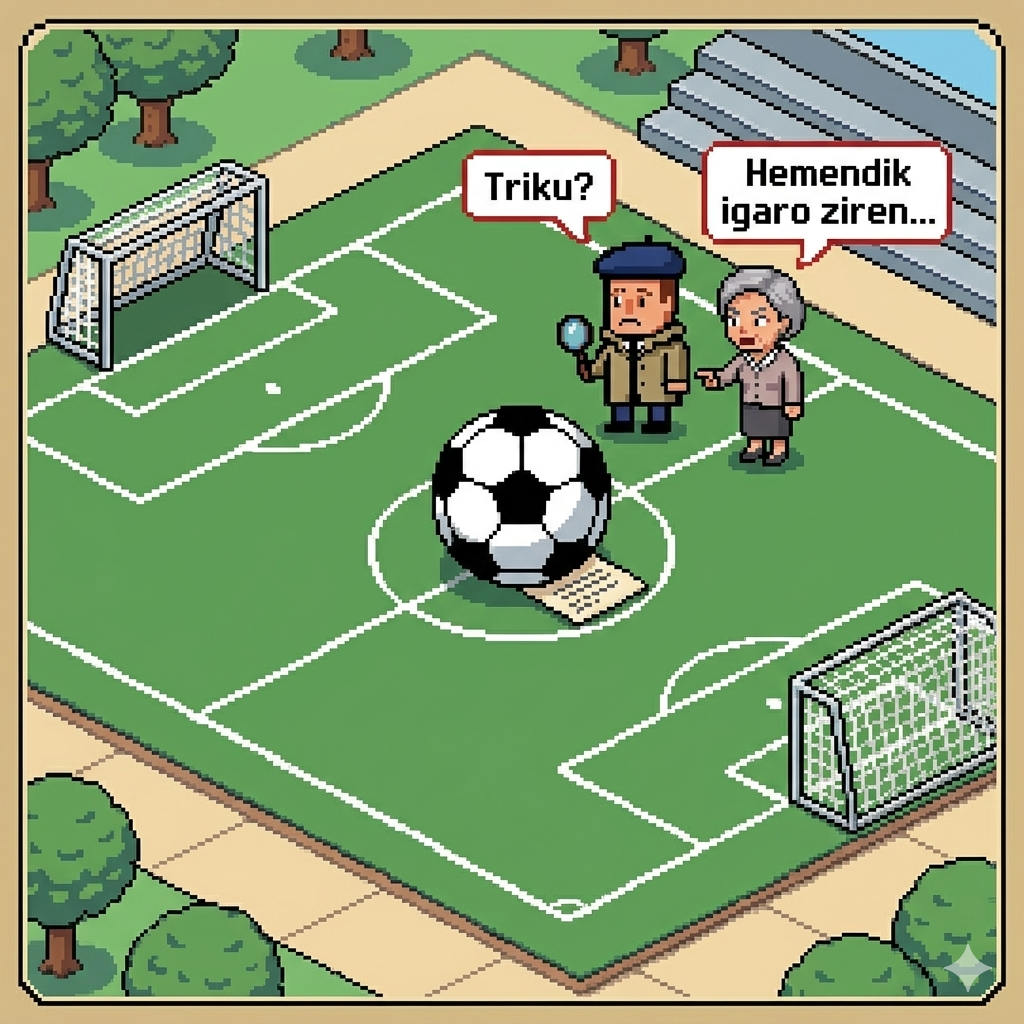
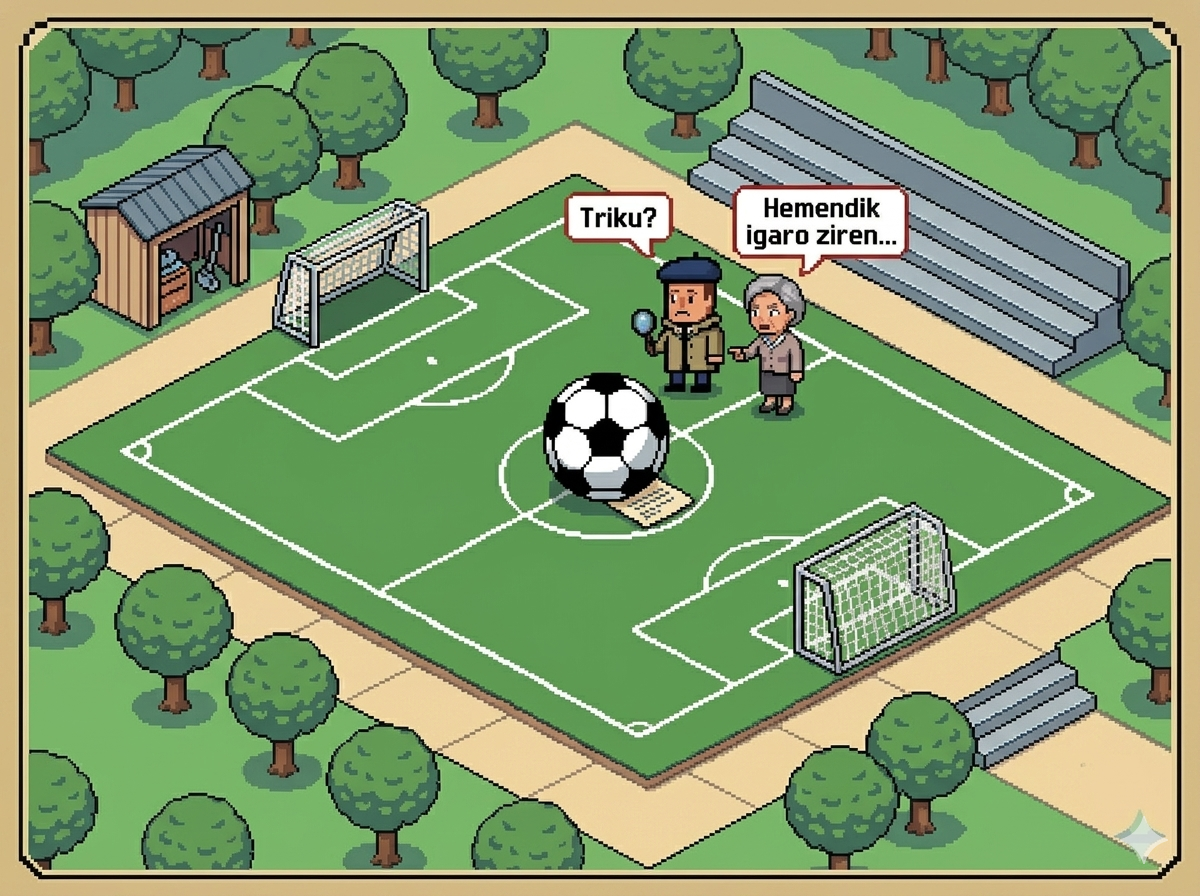
Versión 3

diff --git a/script.js b/script.js
@@ -1,6 +1,6 @@
 /**
  * ═══════════════════════════════════════════════════════
- * CODEX OSCURO — Motor del juego
+ * eroski OSCURO — Motor del juego
  * Elige tu propia aventura — 13 páginas
  * ═══════════════════════════════════════════════════════
  */
@@ -48,153 +48,183 @@ const PAGINAS = [
     capitulo: 'II. KAPITULUA',
     titulo: 'LARRAMENDI FUTBOL ZELAIA',
     texto: `Bartolin Basteitara iritsi zenean, zelaia isilik zegoen. Landako tabernan galdetu zuen ea norbaitek zerbait arraroa ikusi zuen, baina inork ez zuen ezer ikusi. Harmailetan begiratu zuen eta ez zuen ezer aurkitu. Aldagelak arakatu zituen eta ez zuen arrastorik aurkitu. Baina bat-batean, zerbaitek atentzioa eman zion berdegunean. Bartolinen ama zelai erdian zegoen baloi baten ondoan.\n\nBartolin! Bartolin! – oihukatu zuen amak. Eskerrak iritsi zaren. Basteitan paseatzen ari nintzen eta futbol zelaiaren erdian baloi bat zegoela ikusi dut. Eta harrapatzera hurbildu naizenean, ohar bat zegoen baloiaren azpian.`,
-    lore: `En el desierto campo de Larramendi, la madre de Bartolín le guió hasta el círculo central, donde un balón solitario custodiaba un mensaje enigmático. Lo que parecía un simple descuido en Basteita se reveló como el primer acertijo de un juego macabro ideado por 'E'.`,
+    lore: `...`,
     desafio: {
-      galdera: `Bartolinek ohar bat aurkitu du, baina hitz bat falta da:\n\n"Triku berriz ikusi nahi baduzue, _____ pistei."\n\nZein da hitz falta dena?`,
-      erantzuna: 'jarraitu',
-      okerMezua: `Hori ez da... Saiatu berriro. Oharrak zer egiteko esaten du pisteekin?`,
+      galdera: `Zenbat pertsona daude futboleko 2 partida aldi berean jokatzen diren jokalekuan?`,
+      erantzuna: '30',
+      okerMezua: `Hori ez da... Saiatu berriro. Pista: Zelaiaren barruan jokalariak eta beste norbait daude.`,
     },
 	escena: 'larramendi_campo',
     opciones: [
-      { texto: '"Busco el Codex Oscuro para destruirlo"', destino: 5 },
-      { texto: '"Busco poder. Vine por el grimorio"', destino: 6 },
-      { texto: 'Atacarla sin responder', destino: 7 },
+      { texto: 'Zubi berrira joan', destino: 5 },
+      { texto: 'Frontoira joan', destino: 6 },
+      { texto: 'Eskolara itzuli', destino: 7 },
     ],
   },
 
   // ──────────────────────────────────────
-  // PÁGINA 3 — La oscuridad
+  // PÁGINA 3 — El Ayuntamiento
   // ──────────────────────────────────────
   {
     id: 3,
     capitulo: 'III. KAPITULUA',
-    titulo: 'EL ABISMO QUE RESPIRA',
-    texto: `Avanzas con la mano en la pared húmeda. El viento que proviene de la oscuridad no es aire normal: tiene temperatura, tiene peso. Es como si algo respirara al final del pasillo.\n\nDespués de veinte pasos, tu pie toca el vacío. Justo a tiempo logras agarrarte a un saledizo de piedra. Bajo ti, a metros de profundidad, hay una sala iluminada por una luz azul pálida.\n\nEn las paredes del abismo hay figuras grabadas: guerreros, magos, criaturas. Todos convergiendo hacia un mismo punto. Y en ese punto hay una escalera de hierro oxidado que desciende hacia la sala azul.`,
-    lore: `ANOMALÍA DETECTADA: El Pozo de Ecos\n\nCualquier sonido pronunciado en este pasillo se duplica y regresa modificado. Los exploradores del siglo XII reportaron haber escuchado sus propias voces del futuro.`,
-    escena: 'abismo',
+    titulo: 'UDALETXEA',
+    texto: `Egun hartan Udaletxeko plaza bare zegoen. Bartolin arrastoen bila hasi zen. Arake tabernan galdetu zuen, baina Danik esan zion ez zuela ezer arrarorik ikusi. Gero, Posta Bulegoko langileak galdekatu zituen, baina ez zekiten ezer.\n\nUdaletxe atzetik zetorren soinu gogor bat entzun zuen. Plaza garbitzera zetorren eskobatzeko makina zen. Andonik ekortzeko makina gidatzen zuen. Bartolinek galdetu zion ea haur talde bat ikusi zuen handik korrika, baina ez zuen ezer ikusi.\n\nAzkenean, jarlekuak eta jardinerak aztertu ondoren, harrizko iturri txikira hurbildu eta kutxa itxi bat ikusi zuen.`,
+    lore: `...`,
+    desafio: {
+      galdera: `Kutxak 3 zenbakiko kodea eta ohar bat zituen, pista hauekin:<br>6-8-2: Zenbaki bat zuzena da eta posizio egokian dago.<br>6-1-4: Zenbaki bat zuzena da, baina posizio okerrean dago.<br>2-0-6: Bi zenbaki dira zuzenak, baina biak daude posizio okerrean.<br>7-3-8: Ezer ez da zuzena. Zenbaki horietako bat ere ez da kodearen parte.<br>8-7-0: Zenbaki bat zuzena da, baina posizio okerrean dago.`,
+      erantzuna: '0-4-2',
+      okerMezua: `Hori ez da... Saiatu berriro.\nPista: 4. pistako zenbakiak baztertuz hasten da.`,
+    },	
+	escena: 'ayuntamiento',
     opciones: [
-      { texto: 'Descender por la escalera de hierro', destino: 8 },
-      { texto: 'Gritar para explorar el abismo con el eco', destino: 9 },
-      { texto: 'Regresar y tomar el pasillo de la luz', destino: 2 },
+      { texto: 'Daniren dendara joan', destino: 8 },
+      { texto: 'Joan Eroskira', destino: 9 },
+      { texto: 'Joan Gaztegunera', destino: 2 },
     ],
   },
 
   // ──────────────────────────────────────
-  // PÁGINA 4 — El grimorio
+  // PÁGINA 4 — Biblioteca
   // ──────────────────────────────────────
   {
     id: 4,
     capitulo: 'IV. KAPITULUA',
-    titulo: 'EL GRIMORIO DEL SUELO',
-    texto: `Te arrodillas junto al libro. Las páginas son de cuero humano —lo sabes sin que nadie te lo diga— y la tinta parece moverse, como gusanos de luz bajo el papel.\n\nLas palabras cambian mientras lees. Primero dicen tu nombre. Luego dicen cosas que aún no han ocurrido. Lees tres líneas antes de poder apartar los ojos:\n\n"El portador enfrentará a la Oráculo Ciega"\n"El portador encontrará la Llave de Hueso"\n"El portador elegirá entre el mundo y sí mismo"\n\nEl libro se cierra de golpe. Y en la oscuridad, algo se mueve.`,
-    lore: `OBJETO: El Pregrimorio\nCLASIFICACIÓN: Artefacto de primer orden\n\nNo confundir con el Codex Oscuro principal. Este tomo menor actúa como índice y advertencia. Quienes lo leen quedan marcados con el Sello del Destino.`,
-    escena: 'grimorio',
+    titulo: 'LIBURUTEGIA',
+    texto: `Dena isilik dago... isiltasun gehiegi, baita liburutegi baterako ere. Eguna oso arraroa izaten ari da. Bartolin liburutegian sartu zenean, Arrate bere mahaian lanean baino ez zuen ikusi. Harrigarria bada ere, Arratek bazuen liburu bat berarentzat prestatua:\n\n- Arrate: Lehen orduan nik ezagutzen ez nuen haur talde bat etorri da eta liburu hau utzi didate. Interesgarria irudituko litzaizukeela esan dute:\n\n- Bartolin: Eskerrik asko Arrate. Baina nor lirateke ume misteriotsu horiek?\n\n- Arrate: Ez dakit, ez ziren herrikoak. Xandals batzuk zeramatzaten, "E" letradun ezkutu batekin.`,
+    lore: `...`,
+    desafio: {
+      galdera: `Bartolinek liburua ireki zuenean, barruan mezu bat zegoela ikusi zuen:<br>Denek ezagutzen dute Udaletxeko plaza, baina ezagutzen al duzue plaza horren benetako izena?.`,
+      erantzuna: 'Doctor Madinabeitia',
+      okerMezua: `Hori ez da... Saiatu berriro. Google Maps-en bila dezakezue.`,
+    },
+	escena: 'biblioteca',
     opciones: [
-      { texto: 'Tomar el grimorio contigo', destino: 2 },
+      { texto: 'Tomar el biblioteca contigo', destino: 2 },
       { texto: 'Huir hacia el pasillo de la oscuridad', destino: 3 },
       { texto: 'Esperar y no moverte', destino: 10 },
     ],
   },
 
   // ──────────────────────────────────────
-  // PÁGINA 5 — "Vine a destruirlo"
+  // PÁGINA 5 — Puente nuevo
   // ──────────────────────────────────────
   {
     id: 5,
     capitulo: 'V. KAPITULUA',
-    titulo: 'LA PRUEBA DE LA INTENCIÓN',
-    texto: `La Oráculo Ciega te observa en silencio durante un tiempo que parece eterno. Las velas fluctúan. Una de ellas cae y arde en el suelo sin quemarlo.\n\n— "Destruirlo. Qué interesante mentira te has contado a ti mismo." —\n\nSe acerca. Sus dedos, fríos como mármol, tocan tu frente. Una visión te golpea: te ves a ti mismo abriendo el Codex, leyendo las páginas prohibidas, y sonriendo con una sonrisa que no reconoces como tuya.\n\n— "El Codex ya está dentro de ti. La pregunta no es si lo destruirás. La pregunta es cuándo dejarás de fingir que no lo quieres." —\n\nTe ofrece un pequeño frasco de cristal negro. "Bebe esto si deseas ver el camino verdadero."`,
-    lore: `VISIÓN PROFÉTICA: Nivel Alto\n\nLa Oráculo Ciega tiene la capacidad de leer intenciones ocultas. Su diagnóstico rara vez falla, pero su interpretación puede estar sesgada por sus propias lealtades.`,
-    escena: 'oraculo',
+    titulo: 'ZUBI BERRIA',
+    texto: `Ibaiko ura indar handiz jaisten zen. Euri asko egin zuen, eta urak harkaitzen kontra jotzen zuen eta enborrak eta adarrak herrestan eramaten zituen. Pasealekuan ez zegoen inor.\n\nBartolin Loibeko parkera jaitsi zen. Zabu, txirrista eta jarleku guztiak arakatu zituen, baina ez zuen arrastorik aurkitu. Mutil bat zebilen txakurra paseatzen, eta galdetu zion ea zerbait arraroa ikusi zuen, baina mutilak ezetz esan zion.\n\nBat-batean, Bartolinek zubira begiratu zuen eta txandalez jantzitako haur talde bat ikusi zuen, denak kolore berekoak. Zubia azkar zeharkatu eta Koskojalesera zihoazen korrika. Bartolin haiengana korrika zihoala, zerbaitek atentzioa eman zion\n\n`,
+    lore: `...`,
+    desafio: {
+      galdera: `Zubi berriaren erdian ohar bat zegoen, honela zioena:<br>Espioiaren alfabetoan, letra bakoitza hiru posizio aurrerantz mugitzen da (A = D, B = E, C = F...). Zein hitz ezkutatzen da 'LOOFX' kodearen atzean?`,
+      erantzuna: 'Orria',
+      okerMezua: `Hori ez da... Saiatu berriro.`,
+    },
+	escena: 'puente_nuevo',
     opciones: [
-      { texto: 'Beber el líquido negro', destino: 8 },
-      { texto: 'Rechazar el frasco y exigir la salida', destino: 11 },
-      { texto: 'Acusarla de servirle al Codex', destino: 6 },
+      { texto: 'Urrearen Iturrirantz jarraitu', destino: 8 },
+      { texto: 'Futbol zelaira itzuli', destino: 11 },
+      { texto: 'Joan Gaztegunera', destino: 6 },
     ],
   },
 
   // ──────────────────────────────────────
-  // PÁGINA 6 — "Vine por el poder"
+  // PÁGINA 6 — Fonton
   // ──────────────────────────────────────
   {
     id: 6,
     capitulo: 'VI. KAPITULUA',
-    titulo: 'EL PACTO DE SANGRE',
-    texto: `La anciana ríe. No es una risa humana: es el sonido del granito al quebrarse, de los huesos al crujir bajo la tierra.\n\n— "¡Honestidad! Hace décadas que nadie llega aquí con honestidad." —\n\nSe sienta en el altar y saca una pluma ennegrecida. "El Codex tiene un precio. Siempre lo ha tenido. Si quieres su poder, debes dejar algo aquí para siempre."\n\nSobre el altar aparecen tres objetos: un espejo que refleja tu rostro más joven, una caja de madera que late como un corazón, y un hilo de plata que parece ser el hilo de una vida.\n\n"Elige lo que darás y el camino al Codex se abrirá ante ti."`,
-    lore: `SISTEMA: El Precio del Codex\n\nTodo aquel que ha accedido al Codex Oscuro ha pagado un precio diferente. El Archimago Mordecaius entregó su nombre. La Emperatriz Vael entregó su sombra. Nadie entregó lo mismo dos veces.`,
-    escena: 'pacto',
+    titulo: 'FRONTOIA',
+    texto: `Frontoian zarata handia entzuten zen eta jendea oihuka eta animoka. Larrobeltzeko saskibaloi taldea Escolapiosen aurkako partida jokatzen ari zen. Partida zirraragarria zen. Larrobeltz 2 puntu galtzen ari zen eta 5 segundo bakarrik geratzen ziren. Azken segundoan Larrobeltzeko jokalari batek jaurtiketa urrun bat jaurti eta hirukoa sartu zuen. Azkenean, Larrobeltzek 61-60 irabazi zuen. Zaleak oso pozik zeuden, denak oihuka eta txaloka.\n\nBaina bat-batean mundu guztia gelditu egin zen Bartolin frontoira sartzen ikusi zuenean. Une horretan, Larrobeltzeko entrenatzailea Bartolinengana hurbildu zen eta saskietako batean itsatsita aurkitu zuen ohar bat eman zion.\n\n"`,
+    lore: `"Abenturarekin jarraitu nahi baduzu, saski bat sartu beharko duzu."`,
+    escena: 'fronton',
     opciones: [
-      { texto: 'Entregar el espejo (tu juventud)', destino: 8 },
-      { texto: 'Entregar la caja (algo que late en ti)', destino: 12 },
-      { texto: 'Negarte y robarle la pluma', destino: 7 },
+      { texto: 'Pilotalekuko ate sekretu batetik jaistea', destino: 8 },
+      { texto: 'Daniren dendara joan', destino: 12 },
+      { texto: 'Zubi zaharrera joan', destino: 7 },
     ],
   },
 
   // ──────────────────────────────────────
-  // PÁGINA 7 — Ataque
+  // PÁGINA 7 — Tienda de Dani
   // ──────────────────────────────────────
   {
     id: 7,
     capitulo: 'VII. KAPITULUA',
-    titulo: 'LA FURIA DEL CANDIL',
-    texto: `Tu instinto te traiciona. Das un paso hacia la figura y extiendes el brazo.\n\nAntes de que tus dedos la toquen, docenas de velas se lanzan hacia ti como proyectiles de fuego viviente. El calor es insoportable. Retrocedes, tu manga arde brevemente antes de que el fuego muera solo.\n\nLa anciana no se ha movido. Sus ojos blancos te atraviesan.\n\n— "Interesante. La violencia como primer idioma. Conozco ese dialecto." —\n\nLas velas forman un círculo a tu alrededor. No hay salida visible. Pero en el suelo, donde ha caído tu sangre de una quemadura, aparece un símbolo: una llave.\n\n"La Llave de Hueso te ha reconocido. Eso... no debería ser posible."`,
-    lore: `EVENTO INESPERADO: Reconocimiento Arcano\n\nEl símbolo de la Llave de Hueso solo aparece ante quienes tienen sangre de la antigua estirpe de Eldrath. Se creía que dicha estirpe estaba extinta desde el Gran Silencio.`,
-    escena: 'fuego',
+    titulo: 'DANIREN DENDA',
+    texto: `Bartolin Daniren dendan sartu zenean, gominolak eta gozokiak usaintzen zituen denak. Dani, salmahaiaren atzean, Takis pakete batzuk ordenatzen ari zen, kezka-aurpegiz.\n\n— Aupa, Bartolin! — oihu egin zuen Danik —. Eskerrak agertzen zaren. Duela gutxi gazte batzuk sartu dira txandala jantzita, eta barre egiten zuten etengabe. Txikle bat ere ez dute erosi, baina kristalezko poto hau koloretako gozokiz beteta utzi didate eta eskolako ikasleentzat "opari" bat zela esan dute.\n\nBartolinek potoa aztertu zuen. Ezin zen ireki, zenbakizko giltzarrapo bat zuelako. Gozokiak geruza oso zehatzetan jarrita zeudela ikusi zuen. Ohar bat zegoen kristalezko potoari itsatsita."`,
+    lore: `...`,
+    desafio: {
+      galdera: `"Bide gozoa logikaz irekitzen da, ez gosez". Azpian jarraibide batzuk zeuden: gorria = 1, horia = 2, urdina = 3.<br>Bartolinek gozokiek sekuentzia bat osatzen zutela ikusi zuen: gorria, urdina, berdea eta morea.<br>Zer kode sartu beharko da giltzarrapoan irekitzeko?`,
+      erantzuna: '1334',
+      okerMezua: `Hori ez da... Saiatu berriro.`,
+    },
+	escena: 'tienda_dani',
     opciones: [
-      { texto: 'Tomar el símbolo del suelo', destino: 8 },
-      { texto: 'Preguntar a la anciana qué significa', destino: 5 },
-      { texto: 'Intentar escapar del círculo de velas', destino: 11 },
+      { texto: 'Joan Gaztegunera', destino: 8 },
+      { texto: 'Joan Eroskira', destino: 5 },
+      { texto: 'Zubi berrira joan', destino: 11 },
     ],
   },
 
   // ──────────────────────────────────────
-  // PÁGINA 8 — La sala azul / El Codex
+  // PÁGINA 8 — Eroski
   // ──────────────────────────────────────
   {
     id: 8,
     capitulo: 'VIII. KAPITULUA',
-    titulo: 'EL CORAZÓN DE ELDRATH',
-    texto: `La sala azul es una cámara perfectamente esférica. No hay ángulos, no hay esquinas. La luz emana de las propias paredes, que están cubiertas de escritura en un idioma que tu mente comprende sin haberlo aprendido nunca.\n\nEn el centro de la esfera, suspendido en el aire, hay un libro. No grande ni pequeño: perfectamente ordinario, excepto por el hecho de que ninguna sombra lo toca.\n\nEL CODEX OSCURO.\n\nAl acercarte, las páginas se abren solas. Cada línea que lees se borra inmediatamente, como si el conocimiento solo pudiera existir durante el instante en que lo recibes. Tu mano tiembla sobre la cubierta.\n\nEsta es la elección que define todo.`,
-    lore: `EL CODEX OSCURO\nESTADO: Activo / Expectante\n\nEl Codex no es un libro. Es una entidad. Sus páginas contienen la gramática con la que fue escrito el universo. Cada vez que alguien lo lee, el universo se convierte en un borrador.`,
-    escena: 'codex',
+    titulo: 'EROSKI',
+    texto: `Eroskin sartu zenean, aire girotuak Bartolin freskatu zuen. Supermerkatuan gauza asko zeuden: kafea, galletak, jogurtak, frutak, barazkiak, etab. Denak oso itxura ona zuen. Bartolinek supermerkatua zeharkatu zuen harategira iritsi arte. Han zegoen Charles harategian hanburgesak prestatzen.\n\n— Bartolin, pozten naiz zu ikusteaz! — esan zuen bazter batean zegoen erosketa-gurdi bat seinalatuz —. Jertsean "E" bateko ezkutua duten haur batzuek kutxa hutsez betetako orga utzi dute, baina esan didate Alonsotegiko detektibe azkarrenak bakarrik jakingo lukeela falta den "produktua" aurkitzen.\n\nBartolin gurdira hurbildu zen. Esne kaxen eta galleta paketeen artean, kartazal bat aurkitu zuen, barra-kode bitxi baten marrazkia zuena.`,
+    lore: `...`,
+	desafio: {
+      galdera: `"Ez naiz bizi, baina hitzak gordetzen ditut.<br>Ez dut ahoa, baina istorioak kontatzen ditut.<br>Isilik nago beti, baina asko irakasten dut.<br>Zer naiz?`,
+      erantzuna: 'Liburua',
+      okerMezua: `Hori ez da... Saiatu berriro.`,
+    },
+    escena: 'eroski',
     opciones: [
-      { texto: 'Leer el Codex y absorber su poder', destino: 13 },
-      { texto: 'Destruirlo arrojándolo contra el suelo', destino: 12 },
-      { texto: 'Cerrar el libro y dejarlo donde está', destino: 11 },
+      { texto: 'Liburutegira joan', destino: 13 },
+      { texto: 'Joan gaztegunera', destino: 12 },
+      { texto: 'Joan Urrezko Iturrira', destino: 11 },
     ],
   },
 
   // ──────────────────────────────────────
-  // PÁGINA 9 — El eco del abismo
+  // PÁGINA 9 — Gaztegune
   // ──────────────────────────────────────
   {
     id: 9,
     capitulo: 'IX. KAPITULUA',
-    titulo: 'EL ECO HABLA PRIMERO',
-    texto: `Gritas en el abismo. Tu voz rebota contra las paredes y regresa... pero con otro tono. Regresa diciendo cosas que no dijiste.\n\nEl eco dice: "Baja. El libro te espera. El libro siempre te ha esperado."\n\nLuego el eco dice algo que te hiela la sangre: dice tu nombre completo, incluyendo el apellido que nadie en el mundo debería conocer aquí.\n\nEntonces el eco calla. Y en su lugar, desde las profundidades de la sala azul, surge un canto. No es música: es una ecuación. Una secuencia perfecta de tonos que describen, sin palabras, la arquitectura de una puerta que no debería existir.\n\nEn el fondo del abismo, una luz azul parpadea tres veces.`,
-    lore: `FENÓMENO: Ecos Predictivos\n\nLos registros del Archivo de Valdris documentan 7 casos de exploradores que escucharon sus propios ecos futuros. De los 7, solo dos regresaron. Los otros cinco, se dice, decidieron quedarse.`,
-    escena: 'abismo',
-    opciones: [
-      { texto: 'Descender hacia la luz azul parpadeante', destino: 8 },
-      { texto: 'Responder al canto con tu propia voz', destino: 10 },
-      { texto: 'Huir hacia la sala de las velas', destino: 2 },
+    titulo: 'GAZTEGUNE',
+    texto: `Gaztegunean gazte batzuk ping-pongean jokatzen ari ziren, beste batzuk Play jokoan ari ziren eta beste batzuk Larrobeltz eta Larramendiren kromoak aldatzen ari ziren. Giroa alaia zen, baina zerbait ez zetorren bat. Neska-mutil batzuk Gazteguneko gune batean pilatu ziren.\n\nBartolin hurbildu zenean, kaxa handi itxi bat ikusi zuen. Julene oso kezkatuta zegoen, ez zekielako zergatik utzi zuten kutxa hori hor. Julenek Bartolin ikusi zuenean, esan zion:\n\n— Bartolin, begira honi! Kanpoko neska-mutil batzuek kutxa hau utzi eta korrika alde egin dute. Ez nituen ezagutzen, baina denak kirol-arropaz jantzita zeuden. Gainera, dena lokatzezko oinatzez beteta utzi dute, Urrearen iturritik zetozela esaten zuten.`,
+    lore: `...`,
+    desafio: {
+      galdera: `Kutxak teklatu bat zeukan zenbakiekin, eta ohar bat, honela zioena: "Zenbat dakizu Alonsotegiri buruz?"<br><br>Nola du izena Alonsotegitik igarotzen den ibaiak? Bere letrak kontatzen badituzu, lehen zenbakia izango duzu.<br><br>Nola du izena eskolara igotzen den kaleak? Kontatu bere letrak eta bigarren zenbakia izango duzu.<br><br>Zein da Alonsotegiko mendirik garaiena? Kontatu bere letrak eta bigarren zenbakia izango duzu.`,
+      erantzuna: '7611',
+      okerMezua: `Hori ez da... Saiatu berriro.`,
+    },
+	escena: 'gaztegune',
+	opciones: [
+      { texto: 'Bunkerrera joan.', destino: 8 },
+      { texto: 'Urrearen iturrira joan', destino: 10 },
+      { texto: 'Kobazulo sekretura joan', destino: 2 },
     ],
   },
 
   // ──────────────────────────────────────
-  // PÁGINA 10 — Espera / El ser en la oscuridad
+  // PÁGINA 10 — Bunker
   // ──────────────────────────────────────
   {
     id: 10,
     capitulo: 'X. KAPITULUA',
-    titulo: 'LO QUE HABITA EN EL UMBRAL',
-    texto: `Decides esperar. La quietud se vuelve densa, casi sólida.\n\nDespués de lo que podrían ser horas o segundos, algo emerge de la oscuridad. No es humano, pero tampoco es una criatura. Es una presencia que tiene la forma de aquello que más temes.\n\nNo te ataca. Se sienta frente a ti.\n\n— "Eres el primero que no huye ni ataca. Los pacientes tienen acceso a puertas que los impacientes nunca verán." —\n\nLa presencia pone algo en tu mano: una llave de hueso pulido, fría como el invierno eterno, con un símbolo grabado que reconoces del grimorio del suelo.\n\n"La sala esférica está al final del pasillo izquierdo, tercer panel de piedra verde. Pero recuerda: el Codex te dará lo que mereces, no lo que deseas."`,
-    lore: `ENTIDAD: El Guardián del Umbral\nNATURALEZA: Desconocida\n\nNo hay registros de confrontaciones con esta entidad. Solo hay registros de sus regalos, encontrados en manos de exploradores que nunca regresaron a contarlo.`,
-    escena: 'sombra',
+    titulo: 'BUNKER',
+    texto: `Bartolin Alonsotegiko bunkerreko ate astunaren parera iritsi zen. Babesleku hau, Gerra Zibilean harkaitzean zulatua biztanleria zibila bonbardaketetatik babesteko, leku ikaragarria eta iluna izaten jarraitzen zuen. Sartzean, bere urratsen oihartzunak durundi egiten zuen beldurraren aurrean ezkutu gisa erabili ziren hormigoizko galerietan. Tunelak zeharkatzen ari zela, Bartolinek ulertu zuen zergatik zegoen han: bunkerrak, herriaren oroimena ez ezik, Trikuren desagerpenaren misterioa argitzeko azken pista ere gordetzen zuen.\nGaleria nagusian, hormek oraindik erresistentzia istorioak xuxurlatzen dituztela dirudien lekuan, Bartolinek ez zuen maskota aurkitu, inguruko mapa zahar bat baizik. Paperaren gainean, marka gorri batek bunkerretik irten eta Leize Sekreturantz igotzen zen ibilbide ahaztu bat seinalatzen zuen. Maparen oinean, ikatzez idatzitako mezu batek honela zioen: "Historiak honaino ekarri zaitu, baina amaiera mendia zabaltzen den lekuan duzu zain". Bartolinek mapa gorde eta lupa estutu zuen; bunkerra azken urratsa baino ez zen, kobaren iluntasunari aurre egin eta laguna erreskatatu aurretik."`,
+    lore: `Alonsotegiko erraietan zulatutako hormigoizko babesleku honek, gerra garaian herria babesteko, historiaz beteriko isiltasuna gordetzen du gaur egun. Garai batean bonbardaketetatik babesteko lekua izan zena, mendiaren iluntasunerantz ezinbestean daraman arrasto baten azken lekuko bihurtzen da orain.`,
+    escena: 'bunker',
     opciones: [
-      { texto: 'Usar la llave para ir directo al Codex', destino: 8 },
-      { texto: 'Preguntarle qué es exactamente', destino: 5 },
-      { texto: 'Rechazar la llave y buscar otra salida', destino: 11 },
+      { texto: 'Kobazulo sekretura joan', destino: 8 },
+      { texto: 'Joan Gaztegunera', destino: 5 },
+      { texto: 'Udaletxeko plazara joan', destino: 11 },
     ],
   },
 
@@ -205,8 +235,8 @@ const PAGINAS = [
     id: 11,
     capitulo: 'XI. KAPITULUA',
     titulo: 'EL FINAL DE LA PRUDENCIA',
-    texto: `Algo en ti dice que no. Que este lugar, este libro, este poder, no son para ti ni para nadie. Que hay cosas que deben permanecer enterradas.\n\nCaminas de espaldas. La Oráculo Ciega no te detiene. El abismo no te llama. Las velas parpadean una última vez y se apagan todas a la vez.\n\nEn la oscuridad total, encuentras la puerta de hierro. Los tres cerrojos se abren desde dentro, como si Eldrath mismo decidiera dejarte ir.\n\nSales a la superficie al amanecer. El sol te quema los ojos. El aire real, el aire del mundo, sabe a algo que no habías apreciado hasta ahora.\n\nNunca contarás lo que viste. Pero tampoco lo olvidarás jamás.`,
-    lore: `RESULTADO: Salida Voluntaria\nCONSECUENCIAS: Ninguna visible\n\nEl gremio de magos registra que aproximadamente el 12% de los exploradores que llegan a Eldrath deciden salir sin tocar el Codex. Viven vidas largas y tranquilas. Curiosamente, todos mueren sonriendo.`,
+    texto: `Algo en ti dice que no. Que este lugar, este libro, este poder, no son para ti ni para nadie. Que hay cosas que deben permanecer enterradas.\n\nCaminas de espaldas. La Oráculo Ciega no te detiene. El ayuntamiento no te llama. Las velas parpadean una última vez y se apagan todas a la vez.\n\nEn la oscuridad total, encuentras la puerta de hierro. Los tres cerrojos se abren desde dentro, como si Eldrath mismo decidiera dejarte ir.\n\nSales a la superficie al amanecer. El sol te quema los ojos. El aire real, el aire del mundo, sabe a algo que no habías apreciado hasta ahora.\n\nNunca contarás lo que viste. Pero tampoco lo olvidarás jamás.`,
+    lore: `RESULTADO: Salida Voluntaria\nCONSECUENCIAS: Ninguna visible\n\nEl gremio de magos registra que aproximadamente el 12% de los exploradores que llegan a Eldrath deciden salir sin tocar el eroski. Viven vidas largas y tranquilas. Curiosamente, todos mueren sonriendo.`,
     escena: 'salida',
     esFinal: true,
     opciones: [],
@@ -219,7 +249,7 @@ const PAGINAS = [
     id: 12,
     capitulo: 'XII. KAPITULUA',
     titulo: 'EL FINAL DEL SACRIFICIO',
-    texto: `Arrancas el Codex del aire. Vibra en tus manos como un ser vivo aterrorizado.\n\nLo arrojas contra el suelo de la sala esférica. Nada. Lo golpeas contra la pared. Nada. Entonces recuerdas: en el grimorio del suelo leíste que el Codex solo puede ser destruido por algo que el propio portador ame.\n\nEntiendes lo que debes hacer.\n\nUsas el recuerdo más querido que tienes —un momento de tu vida que nunca quisiste perder— y lo concentras en tus manos. El calor que emerge no es mágico: es simplemente humano.\n\nEl Codex Oscuro, por primera vez en 900 años, arde.\n\nLa sala esférica colapsa a tu alrededor. Pero tú ya estás afuera, corriendo, con las manos vacías y el corazón lleno de algo que no tiene nombre.`,
+    texto: `Arrancas el eroski del aire. Vibra en tus manos como un ser vivo aterrorizado.\n\nLo arrojas contra el suelo de la sala esférica. Nada. Lo golpeas contra la pared. Nada. Entonces recuerdas: en el biblioteca del suelo leíste que el eroski solo puede ser destruido por algo que el propio portador ame.\n\nEntiendes lo que debes hacer.\n\nUsas el recuerdo más querido que tienes —un momento de tu vida que nunca quisiste perder— y lo concentras en tus manos. El calor que emerge no es mágico: es simplemente humano.\n\nEl eroski Oscuro, por primera vez en 900 años, arde.\n\nLa sala esférica colapsa a tu alrededor. Pero tú ya estás afuera, corriendo, con las manos vacías y el corazón lleno de algo que no tiene nombre.`,
     lore: `RESULTADO: Destrucción del Artefacto\nCONSECUENCIAS: El Mundo Reescrito\n\nLos registros del Archivo de Valdris quedaron en blanco esa noche. Al día siguiente, en el mundo exterior, nadie recordaba por qué había guerras. Muchos lo llamaron milagro. Solo tú sabes el precio.`,
     escena: 'destruccion',
     esFinal: true,
@@ -232,8 +262,8 @@ const PAGINAS = [
   {
     id: 13,
     capitulo: 'XIII. KAPITULUA',
-    titulo: 'EL FINAL DEL CODEX',
-    texto: `Lees.\n\nNo puedes parar. Cada página devora a la siguiente. El idioma que no deberías entender lo entiendes todo: la sintaxis de la gravedad, la conjugación de la luz, la puntuación del tiempo.\n\nCuando terminas la última página, alzas la vista.\n\nLa sala esférica ha desaparecido. Las catacumbas han desaparecido. La Oráculo Ciega, el abismo, el eco, todo ha desaparecido. Solo queda el mundo, extendido ante ti como una página en blanco.\n\nEl Codex Oscuro ya no es un libro. Es tu memoria.\n\nPuedes reescribirlo todo.\n\nY eso, comprendes por fin, era exactamente lo que el Codex necesitaba que hicieras.`,
+    titulo: 'EL FINAL DEL eroski',
+    texto: `Lees.\n\nNo puedes parar. Cada página devora a la siguiente. El idioma que no deberías entender lo entiendes todo: la sintaxis de la gravedad, la conjugación de la luz, la puntuación del tiempo.\n\nCuando terminas la última página, alzas la vista.\n\nLa sala esférica ha desaparecido. Las catacumbas han desaparecido. La Oráculo Ciega, el ayuntamiento, el eco, todo ha desaparecido. Solo queda el mundo, extendido ante ti como una página en blanco.\n\nEl eroski Oscuro ya no es un libro. Es tu memoria.\n\nPuedes reescribirlo todo.\n\nY eso, comprendes por fin, era exactamente lo que el eroski necesitaba que hicieras.`,
     lore: `RESULTADO: Fusión con el Artefacto\nCONSECUENCIAS: Indefinidas\n\nEl Archivo de Valdris registra una única nota sobre este desenlace, escrita en un idioma que nadie ha podido descifrar. La última línea, sin embargo, está en texto común: "Y el mundo nunca supo que era ficción."`,
     escena: 'poder',
     esFinal: true,
@@ -254,26 +284,28 @@ const ESCENAS = {
   inicio: () => `<img src="01_pagina.png" alt="1KAPITULUA" />`,
 
   larramendi_campo: () => `<img src="02_pagina.png" alt="2KAPITULUA" />`,
+  
+  ayuntamiento: () => `<img src="03_pagina.png" alt="2KAPITULUA" />`,
 
-  abismo: () => `<img src="03_pagina.png" alt="3KAPITULUA" />`,
+  biblioteca: () => `<img src="04_pagina.png" alt="4KAPITULUA" />`,
 
-  grimorio: () => `<img src="04_pagina.png" alt="4KAPITULUA" />`,
+  puente_nuevo: () => `<img src="05_pagina.png" alt="5KAPITULUA" />`,
 
-  oraculo: () => `<img src="05_pagina.png" alt="5KAPITULUA" />`,
+  fronton: () => `<img src="06_pagina.png" alt="6KAPITULUA" />`,
 
-  pacto: () => `<img src="06_pagina.png" alt="6KAPITULUA" />`,
+  tienda_dani: () => `<img src="07_pagina.png" alt="7KAPITULUA" />`,
 
-  fuego: () => `<img src="07_pagina.png" alt="7KAPITULUA" />`,
+  eroski: () => `<img src="08_pagina.png" alt="8KAPITULUA" />`,
+  
+  gaztegune: () => `<img src="09_pagina.png" alt="9KAPITULUA" />`,
 
-  codex: () => `<img src="08_pagina.png" alt="8KAPITULUA" />`,
+  bunker: () => `<img src="10_pagina.png" alt="10KAPITULUA" />`,
 
-  sombra: () => `<img src="09_pagina.png" alt="9KAPITULUA" />`,
+  salida: () => `<img src="11_pagina.png" alt="11KAPITULUA" />`,
 
-  salida: () => `<img src="10_pagina.png" alt="10KAPITULUA" />`,
+  destruccion: () => `<img src="12_pagina.png" alt="12KAPITULUA" />`,
 
-  destruccion: () => `<img src="12_pagina.png" alt="11KAPITULUA" />`,
-
-  poder: () => `<img src="11_pagina.png" alt="11KAPITULUA" />`,
+  poder: () => `<img src="13_pagina.png" alt="13KAPITULUA" />`,
 };
 
 /* ══════════════════════════════════════════
@@ -285,14 +317,14 @@ const Estado = {
   historial: [],
   /** Guarda en localStorage */
   guardar() {
-    localStorage.setItem('codex_oscuro_save', JSON.stringify({
+    localStorage.setItem('triku_save', JSON.stringify({
       paginaActual: this.paginaActual,
       historial: this.historial,
     }));
   },
   /** Carga desde localStorage */
   cargar() {
-    const raw = localStorage.getItem('codex_oscuro_save');
+    const raw = localStorage.getItem('triku_save');
     if (!raw) return false;
     try {
       const data = JSON.parse(raw);
@@ -303,7 +335,7 @@ const Estado = {
   },
   /** Borra el guardado */
   borrar() {
-    localStorage.removeItem('codex_oscuro_save');
+    localStorage.removeItem('triku_save');
     this.paginaActual = 1;
     this.historial    = [];
   },
@@ -558,7 +590,7 @@ function activarDesafio(desafio, opciones, esFinal) {
   let intentos = 0;
 
   // Resetear widget
-  DOM.challengeQuestion.textContent = desafio.galdera;
+  DOM.challengeQuestion.innerHTML = desafio.galdera;
   DOM.challengeInput.value = '';
   DOM.challengeInput.classList.remove('input-error');
   DOM.challengeErrDiv.classList.add('hidden');